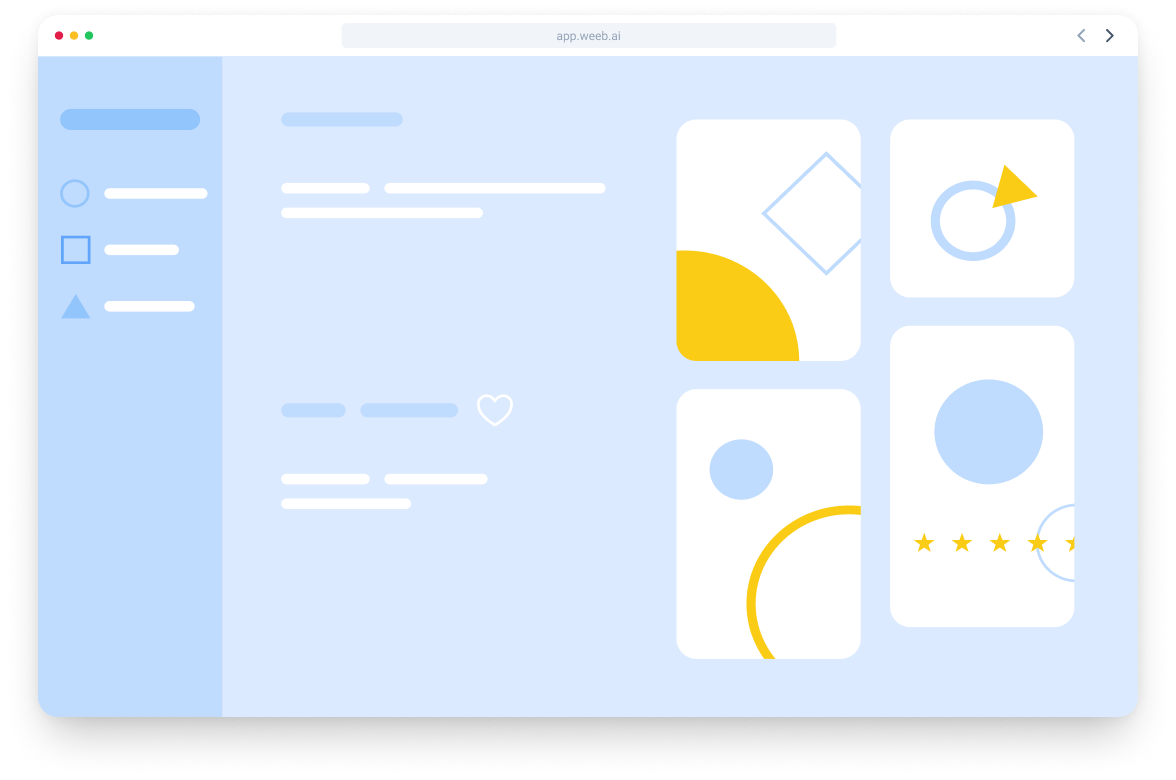
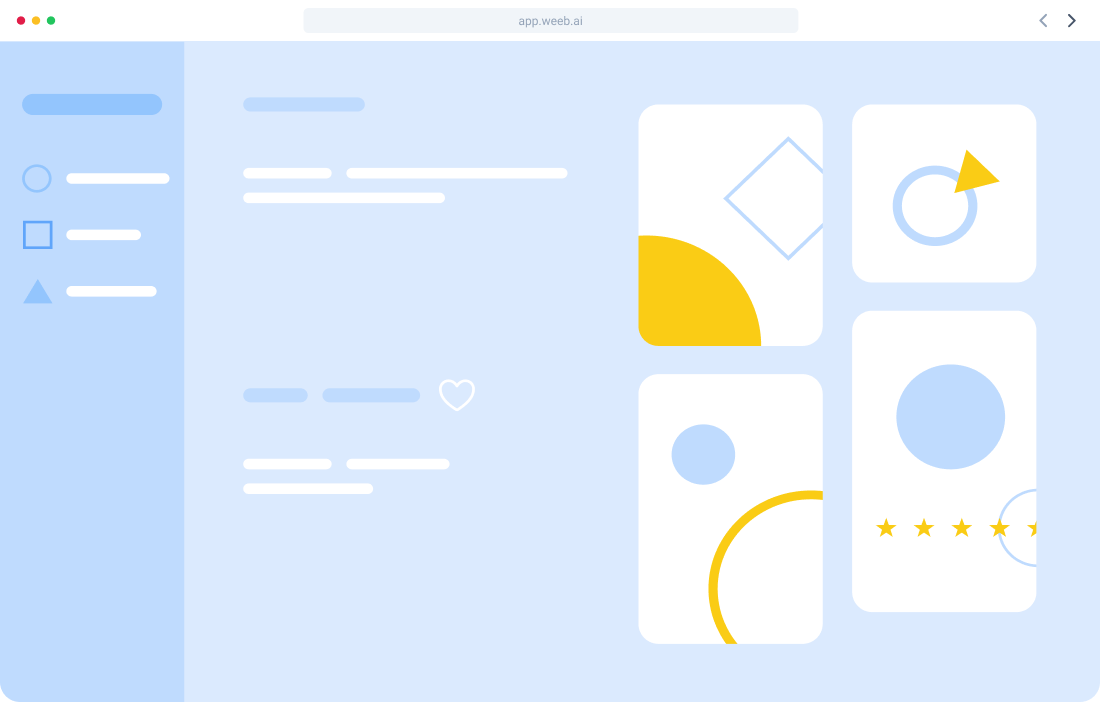
add new section

diff --git a/index.html b/index.html
@@ -61,6 +61,31 @@
                                 <img src="img/Desktop.webp" alt="Зображення">
                         </picture>
                     </section>
+                    <section class="main__join join">
+                        <div class="join__caption caption">Join Leading Companies</div>
+                        <div class="join__companies">
+                            <div class="join__company">
+                                <img class="join__logo" src="img/company-logo_1.svg" alt="Logo1">
+                                <h5 class="join__label">SmartFinder</h5>
+                            </div>
+                            <div class="join__company">
+                                <img class="join__logo" src="img/company-logo_2.svg" alt="Logo2">
+                                <h5 class="join__label">Zoomerr</h5>
+                            </div>
+                            <div class="join__company">
+                                <img class="join__logo" src="img/company-logo_3.svg" alt="Logo3">
+                                <h5 class="join__label">SHELLS</h5>
+                            </div>
+                            <div class="join__company">
+                                <img class="join__logo" src="img/company-logo_4.svg" alt="Logo4">
+                                <h5 class="join__label">WAVES</h5>
+                            </div>
+                            <div class="join__company">
+                                <img class="join__logo" src="img/company-logo_5.svg" alt="Logo5">
+                                <h5 class="join__label">ArtVenue</h5>
+                            </div>
+                        </div>
+                    </section>
                 </div>
             </main>
             <footer class="tooter">footer</footer>

diff --git a/scss/_main.scss b/scss/_main.scss
@@ -36,6 +36,9 @@
         text-decoration: underline;
         text-decoration-thickness: 5px; 
         text-decoration-color: #c084fc;
+        @media (max-width: 380px){
+            text-decoration-thickness: 3px; 
+        }
     }
 
     .color-symbol{
@@ -55,6 +58,10 @@
             background-color: #c084fc;
             @media  (max-width: 767px){
                 top: 13px;
+            }
+            @media (max-width: 380px){
+                top: 11px;
+                block-size: 5px;
             }
         }
 
@@ -85,11 +92,16 @@
     }
 
     &__image {
+        box-shadow: 0 0 15px 0 rgba(0,0,0,.07),0 25px 50px -12px rgba(0,0,0,.25);
         max-width: 1100px;
-        margin: 0 auto;
+        
         & img{
             width: 100%;
             border-radius: 20px;
+            margin-block: 80px;
+            @media (max-width: 425px) {
+                margin-block: 48px;
+            }
         }
     }
 }
@@ -100,4 +112,48 @@
 .button--purple {
 }
 .button--border {
+}
+
+
+//- SECTION JOIN 
+.join {
+    margin-top: 80px;
+    @media (max-width: 425px) {
+        margin-top: 16px;
+        
+    }
+
+    &__caption {
+        text-align: center;
+        
+    }
+
+    &__companies {
+        margin-block: 80px;
+        display: flex;
+        flex-wrap: wrap;
+        gap: 15px 10px;
+        justify-content: space-around;
+        @media (max-width: 900px) {
+            gap: 24px 32px;
+            margin-block: 48px;
+        }
+    }
+
+    &__company {
+        display: flex;
+        justify-content: space-between;
+        gap: 8px;
+        align-items: center;
+    }
+
+    &__logo {
+        height: 32px;
+    }
+
+    &__label {
+        font-size: 24px;
+        font-weight: 700;
+        line-height: 26px;
+    }
 }

diff --git a/css/style.css b/css/style.css
@@ -127,6 +127,19 @@ a, *::before, *::after {
   border: solid 2px #FFF;
 }
 
+.caption {
+  color: #fff;
+  font-size: 56px;
+  font-weight: 800;
+  line-height: 62px;
+}
+@media (max-width: 425px) {
+  .caption {
+    font-size: 40px;
+    line-height: 44px;
+  }
+}
+
 html {
   color-scheme: light dark;
 }
@@ -389,6 +402,11 @@ body {
   text-decoration-thickness: 5px;
   text-decoration-color: #c084fc;
 }
+@media (max-width: 380px) {
+  .hero .underline {
+    text-decoration-thickness: 3px;
+  }
+}
 .hero .color-symbol {
   color: #9333ea;
 }
@@ -408,6 +426,12 @@ body {
 @media (max-width: 767px) {
   .hero .upperline::after {
     top: 13px;
+  }
+}
+@media (max-width: 380px) {
+  .hero .upperline::after {
+    top: 11px;
+    block-size: 5px;
   }
 }
 .hero__text {
@@ -433,10 +457,55 @@ body {
   }
 }
 .hero__image {
+  box-shadow: 0 0 15px 0 rgba(0, 0, 0, 0.07), 0 25px 50px -12px rgba(0, 0, 0, 0.25);
   max-width: 1100px;
-  margin: 0 auto;
 }
 .hero__image img {
   width: 100%;
   border-radius: 20px;
+  margin-block: 80px;
+}
+@media (max-width: 425px) {
+  .hero__image img {
+    margin-block: 48px;
+  }
+}
+
+.join {
+  margin-top: 80px;
+}
+@media (max-width: 425px) {
+  .join {
+    margin-top: 16px;
+  }
+}
+.join__caption {
+  text-align: center;
+}
+.join__companies {
+  margin-block: 80px;
+  display: flex;
+  flex-wrap: wrap;
+  gap: 15px 10px;
+  justify-content: space-around;
+}
+@media (max-width: 900px) {
+  .join__companies {
+    gap: 24px 32px;
+    margin-block: 48px;
+  }
+}
+.join__company {
+  display: flex;
+  justify-content: space-between;
+  gap: 8px;
+  align-items: center;
+}
+.join__logo {
+  height: 32px;
+}
+.join__label {
+  font-size: 24px;
+  font-weight: 700;
+  line-height: 26px;
 }

diff --git a/scss/_components.scss b/scss/_components.scss
@@ -47,3 +47,14 @@
 .button--border{
     border: solid 2px #FFF;
 }
+
+.caption{
+    color: #fff;
+    font-size: 56px;
+    font-weight: 800;
+    line-height: 62px;
+    @media (max-width: 425px){
+        font-size: 40px;
+        line-height: 44px;
+    }
+}
